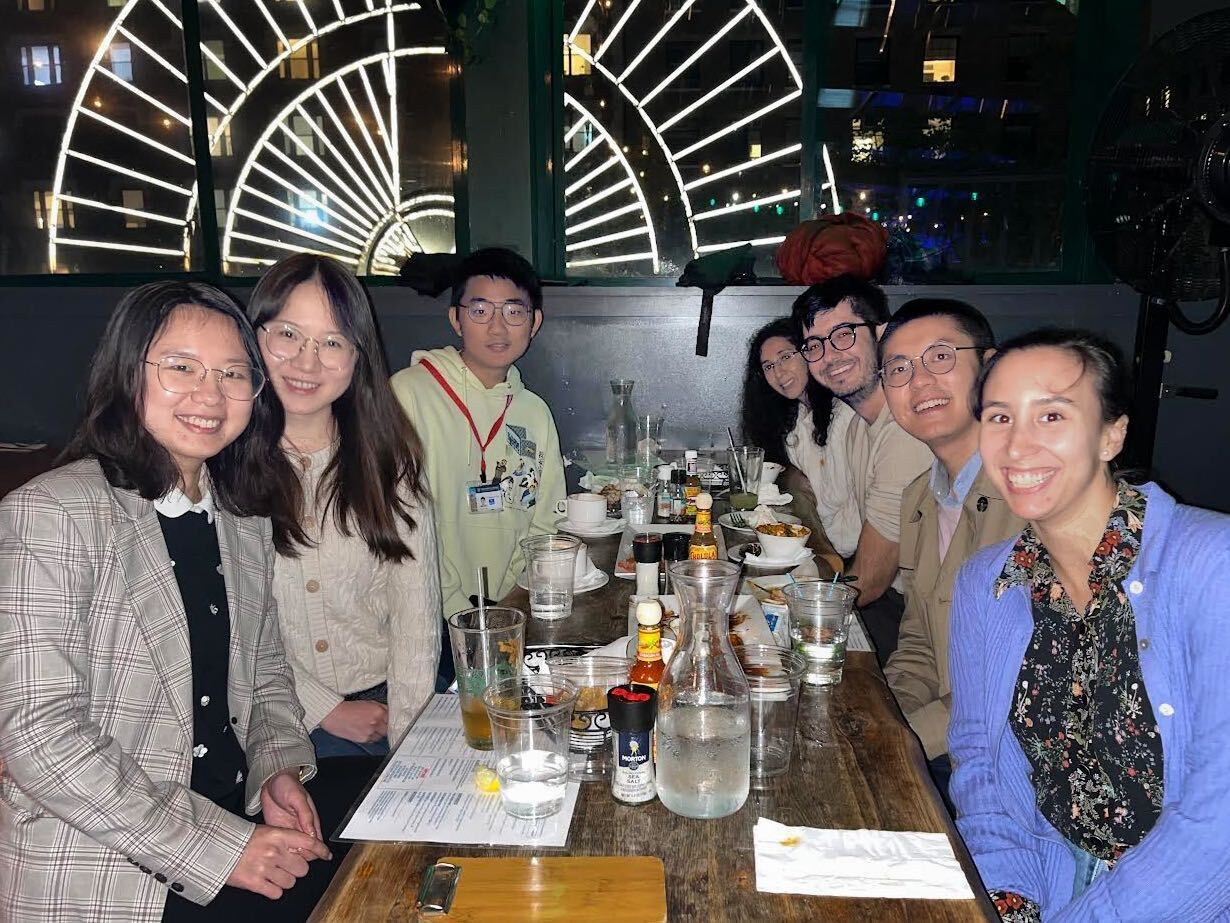
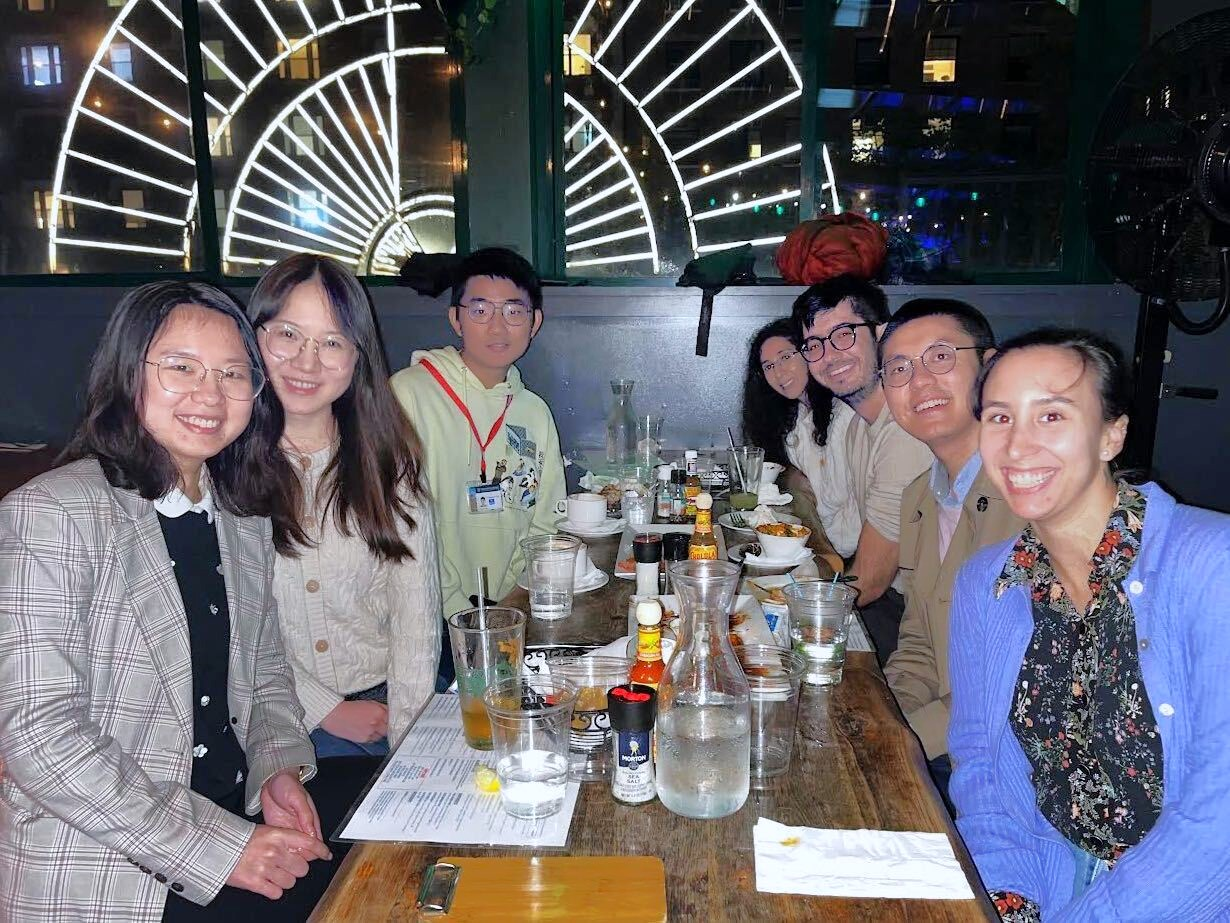
Update content

diff --git a/_includes/footer.html b/_includes/footer.html
@@ -25,7 +25,11 @@
   <div>
     &copy; {{ site.time | date: "%Y" }}
     {{ site.title }}
-    &nbsp; | &nbsp; Built with
+    &nbsp; | &nbsp; Logo designed by
+    <a href="https://www.guawadesign.com/">
+      Guawa 
+    </a>
+    &nbsp; | &nbsp; Site built with
     <a href="https://github.com/greenelab/lab-website-template">
       LMT
     </a>

diff --git a/join/index.md b/join/index.md
@@ -15,14 +15,14 @@ Before applying for or inquiring about any of the opportunities listed below, **
 ### Postdoctoral scholars
 Currently there is no project-based postdoc position available. However, you can apply to the following fellowship programs at Columbia/TC and identify Dr. Yu as one of your faculty mentors. These programs support fully independent postdoc positions and are highly competitive.
 
-- [DSI Postdoctoral Fellows Program](https://apply.interfolio.com/157225) (Deadline: December 15, 2024) 
+- [DSI Postdoctoral Fellows Program](https://apply.interfolio.com/157225) (Deadline for this cycle has passed.) 
 - [TC Minority Postdoctoral Fellow](https://employment.tc.columbia.edu/cw/en-us/job/512981/minority-postdoctoral-fellow) (Deadline: December 31, 2024)
 
 ### Doctoral students
-We admit **new doctoral students** through the following programs:
+We admit **new doctoral students** every year through the following programs:
 
-- [Cognitive Science in Education](https://www.tc.columbia.edu/human-development/cognitive-studies-in-education/degrees--requirements/cognitive-science-in-education-phd/) (Deadline: December 1, 2024) 
-- [Measurement and Evaluation](https://www.tc.columbia.edu/human-development/measurement-evaluation-and-statistics/degrees--requirements/measurement-and-evaluation-phd/) (Deadline: December 1, 2024) 
+- [Cognitive Science in Education](https://www.tc.columbia.edu/human-development/cognitive-studies-in-education/degrees--requirements/cognitive-science-in-education-phd/) (Deadline for this cycle has passed.) 
+- [Measurement and Evaluation](https://www.tc.columbia.edu/human-development/measurement-evaluation-and-statistics/degrees--requirements/measurement-and-evaluation-phd/) (Deadline for this cycle has passed.) 
 
 You should apply to one (and only one) of the programs that best suits your background and interest, and mention that you want to work with Dr. Yu in your statement of purpose. You can find more application instructions [here](https://www.tc.columbia.edu/admission/how-to-apply/degree-programs/).
 

diff --git a/_posts/2024-09-01-PEAR-Fellowship.md b/_posts/2024-09-01-PEAR-Fellowship.md
@@ -4,4 +4,4 @@ last_modified_at: ""
 link: https://www.tc.columbia.edu/pear-fellowship/fellows/
 ---
 
-Congratulations to new PhD student Daniel March for receiving the Postsecondary Education Applied Research (PEAR) Fellowship to support his doctoral study! This fellowship provides doctoral students with training in advanced quantitative analysis and the practical skills needed for a career in applied research in postsecondary education.
+Congratulations to first-year PhD student Daniel March for receiving the Postsecondary Education Applied Research (PEAR) Fellowship to support his doctoral study! This fellowship provides doctoral students with training in advanced quantitative analysis and the practical skills needed for a career in applied research in postsecondary education.

diff --git a/_posts/2024-09-01-Wood-Fellowship.md b/_posts/2024-09-01-Wood-Fellowship.md
@@ -4,4 +4,4 @@ last_modified_at: ""
 link: https://www.tc.columbia.edu/articles/2002/january/the-ben-and-grace-wood-legacy/
 ---
 
-Congratulations to new PhD student Zhen Xu for receiving the Ben D. Wood Fellowship to support her doctoral study! This fellowship provides a four-year full-tuition scholarship and a stipend to new doctoral students studying technology and education at Teachers College.
+Congratulations to first-year PhD student Zhen Xu for receiving the Ben D. Wood Fellowship to support her doctoral study! This fellowship provides a four-year full-tuition scholarship and a stipend to new doctoral students studying technology and education at Teachers College.

diff --git a/index.md b/index.md
@@ -7,6 +7,6 @@
 AEQUITAS Lab is a research lab situated in [Teachers College, Columbia University](https://www.tc.columbia.edu/). Directed by Dr. [Renzhe Yu](https://renzheyu.com), we conduct research at the intersection of responsible AI and social equity, informing responsible integration of advanced technologies and algorithms in society.
 
 {% include column-pic.html 
-   image1="/images/lab-pic.jpg"
+   image1="/images/lab-pic-1.jpg"
    image2="/images/lab-pic-2.jpg"
 %}

diff --git a/_posts/2024-12-09-Castellan-Paper-Award.md b/_posts/2024-12-09-Castellan-Paper-Award.md
@@ -1,0 +1,7 @@
+---
+title: John Castellan Student Paper Award
+last_modified_at: ""
+link: https://computationinpsych.com/awards/
+---
+
+Congratulations to first-year PhD student Zhen Xu for receiving the John Castellan Student Paper Award from the Society for Computation in Psychology! This annual award honors the most outstanding student paper on the application of computational or computerized methods to any area of psychology.

diff --git a/_members/maidi-nathan.md b/_members/maidi-nathan.md
@@ -1,6 +1,6 @@
 ---
 name: Nathan Maidi
-image: images/photo.jpg
+image: images/headshots/nathan-maidi.jfif
 group: alum
 links:
     linkedin: nathanmaidi
